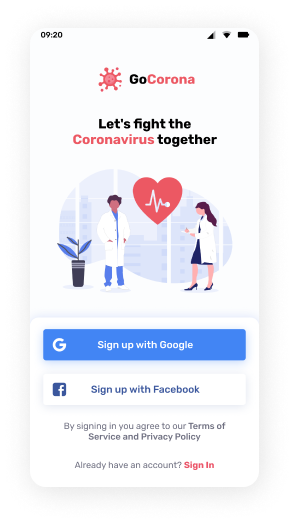
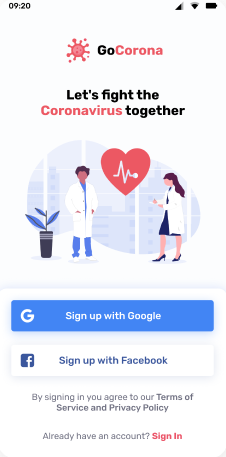
standartize

diff --git a/scss/safe.scss b/scss/safe.scss
@@ -8,80 +8,83 @@
 
 .safe-content {
     display: flex;
-    align-items: center;
     justify-content: center;
+    align-items: center;
     flex-wrap: wrap-reverse;
-    gap: 10px;
-
-    // display: grid;
-    // grid-template-columns: repeat(auto-fit, minmax(400px, 500px));
-    // align-items: center;    
+    gap: 10px; 
+    
+    .text-block {
+        flex: 1 1 300px;
+    }
 }
 
 .safe-img {
-    position: relative;
-    width: 340px;
+    flex: 1 1 500px;
     margin: auto;
-
-    img {
-        display: block; 
+    
+    .img-container {
+        padding: 30px 0;
+        position: relative;
+        width: 340px;
         margin: auto;
-    }
-
-    .decor {
-        position: absolute;
-        right: 0;
-        bottom: 180px;
-        border-radius: 30px;
-        width: 77px;
-        height: 77px;
-        background-color: $accent-color;
-        z-index: -1;
-
-        @include mediaMobile() {
-            width: 60px;
-            height: 60px;
-            border-radius: 20px;
+        .decor {
+            position: absolute;
+            right: 0;
+            bottom: 180px;
+            border-radius: 30px;
+            width: 77px;
+            height: 77px;
+            background-color: $accent-color;
+            z-index: -1;
+        
+            @include mediaMobile() {
+                width: 60px;
+                height: 60px;
+                border-radius: 20px;
+            }
         }
-    }
-
-    &::before {
-        content: '';
-        position: absolute;
-        top: 0;
-        left: 0;
-        border-radius: 30px;
-        width: 147px;
-        height: 147px;
-        background-color: $accent-color;
-        z-index: -1;
-
-        @include mediaMobile() {
-            width: 100px;
-            height: 100px;
-        }
-    }
-
-    &::after {
-        content: '';
-        position: absolute;
-        bottom: 0;
-        left: 32px;
-        border-radius: 30px;
-        width: 77px;
-        height: 77px;
-        background-color: $accent-color;
-        z-index: -1;
-
-        @include mediaMobile() {
-            width: 45px;
-            height: 45px;
-            border-radius: 17px;
+        
+        &::before {
+            content: '';
+            position: absolute;
+            top: 0;
             left: 0;
+            border-radius: 30px;
+            width: 147px;
+            height: 147px;
+            background-color: $accent-color;
+            z-index: -1;
+        
+            @include mediaMobile() {
+                width: 100px;
+                height: 100px;
+            }
+        }
+        
+        &::after {
+            content: '';
+            position: absolute;
+            bottom: 0;
+            left: 32px;
+            border-radius: 30px;
+            width: 77px;
+            height: 77px;
+            background-color: $accent-color;
+            z-index: -1;
+        
+            @include mediaMobile() {
+                width: 45px;
+                height: 45px;
+                border-radius: 17px;
+                left: 0;
+            }
         }
     }
-
-    @include mediaMobile() {
-        width: 200px;
+    
+    img {
+        width: 226px;
+        margin: auto;
+        display: block; 
     }
+
 }

diff --git a/css/style.css b/css/style.css
@@ -373,27 +373,35 @@ h1, h2 {
   display: -webkit-box;
   display: -ms-flexbox;
   display: flex;
-  -webkit-box-align: center;
-      -ms-flex-align: center;
-          align-items: center;
   -webkit-box-pack: center;
       -ms-flex-pack: center;
           justify-content: center;
+  -webkit-box-align: center;
+      -ms-flex-align: center;
+          align-items: center;
   -ms-flex-wrap: wrap-reverse;
       flex-wrap: wrap-reverse;
   gap: 10px;
 }
+.safe-content .text-block {
+  -webkit-box-flex: 1;
+      -ms-flex: 1 1 300px;
+          flex: 1 1 300px;
+}
 
 .safe-img {
+  -webkit-box-flex: 1;
+      -ms-flex: 1 1 500px;
+          flex: 1 1 500px;
+  margin: auto;
+}
+.safe-img .img-container {
+  padding: 30px 0;
   position: relative;
   width: 340px;
   margin: auto;
 }
-.safe-img img {
-  display: block;
-  margin: auto;
-}
-.safe-img .decor {
+.safe-img .img-container .decor {
   position: absolute;
   right: 0;
   bottom: 180px;
@@ -404,13 +412,13 @@ h1, h2 {
   z-index: -1;
 }
 @media screen and (max-width: 460px) {
-  .safe-img .decor {
+  .safe-img .img-container .decor {
     width: 60px;
     height: 60px;
     border-radius: 20px;
   }
 }
-.safe-img::before {
+.safe-img .img-container::before {
   content: "";
   position: absolute;
   top: 0;
@@ -422,12 +430,12 @@ h1, h2 {
   z-index: -1;
 }
 @media screen and (max-width: 460px) {
-  .safe-img::before {
+  .safe-img .img-container::before {
     width: 100px;
     height: 100px;
   }
 }
-.safe-img::after {
+.safe-img .img-container::after {
   content: "";
   position: absolute;
   bottom: 0;
@@ -439,17 +447,17 @@ h1, h2 {
   z-index: -1;
 }
 @media screen and (max-width: 460px) {
-  .safe-img::after {
+  .safe-img .img-container::after {
     width: 45px;
     height: 45px;
     border-radius: 17px;
     left: 0;
   }
 }
-@media screen and (max-width: 460px) {
-  .safe-img {
-    width: 200px;
-  }
+.safe-img img {
+  width: 226px;
+  margin: auto;
+  display: block;
 }
 
 .experts {
@@ -648,8 +656,8 @@ h1, h2 {
 }
 .text-video .text-block {
   -webkit-box-flex: 1;
-      -ms-flex: 1 1 330px;
-          flex: 1 1 330px;
+      -ms-flex: 1 1 300px;
+          flex: 1 1 300px;
 }
 
 .video-link {

diff --git a/index.html b/index.html
@@ -63,8 +63,10 @@
             <div class="container">
                 <div class="safe-content">
                     <div class="safe-img">
-                        <img src="img/screenshot.png" alt="screenshot">
-                        <div class="decor"></div>
+                        <div class="img-container">
+                            <img src="img/screenshot.png" alt="screenshot">
+                            <div class="decor"></div>
+                        </div>
                     </div>
 
                     <div class="text-block">
@@ -77,7 +79,7 @@
             </div>
         </section>
 
-        <section class="experts none">
+        <section class="experts">
             <div class="container">
                 <div class="experts-content">
                     <div class="numbers">

diff --git a/scss/experts.scss b/scss/experts.scss
@@ -127,7 +127,7 @@
     }
 
     .text-block {
-        flex: 1 1 330px;
+        flex: 1 1 300px;
     }
 }
 
